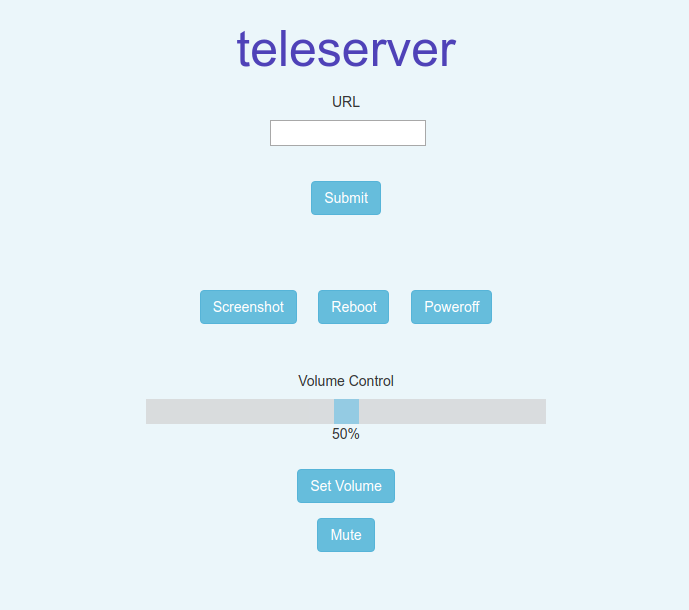
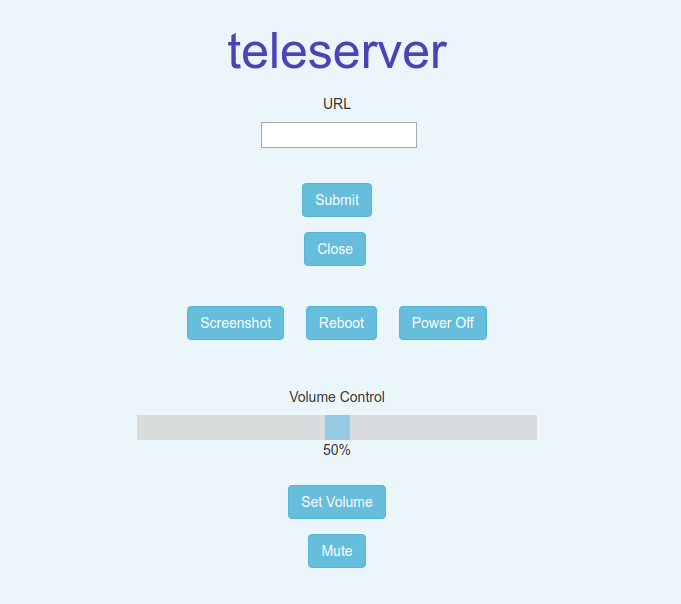
Added Close button to GUI

diff --git a/templates/cast.html b/templates/cast.html
@@ -69,6 +69,8 @@
             <div class="panel-body">
                 <input type="submit" class="btn btn-info" name="action" value="Submit">
             </div>
+            <!-- Close button-->
+            <input type="submit" class="btn btn-info" name="action" value="Close">
             </br></br></br>
 
             <div class="container">

diff --git a/run.py b/run.py
@@ -176,6 +176,9 @@ def gui():
         elif request.form['action'] == "Mute":
             system_mute()
 
+        elif request.form['action'] == "Close":
+            system_close()
+
        
         
     return render_template('cast.html', form=form)

diff --git a/README.md b/README.md
@@ -8,12 +8,12 @@ which allows you to execute commands over web.
 ## Install
 In order to install server you'll need ansible.
 
-If you have it already installed on your machine or you know how to install it, just download system_setup.yml and run it with:
+If you have it already installed on your machine or you know how to install it, just download systemSetup.yml and run it with:
 ```
-sudo ansible-playbook system_setup.yml
+sudo ansible-playbook systemSetup.yml
 ```
 However, if you don't know what's going on, download install.sh ans run it as sudo.
-It'll install ansible, download system_setup.yml and run it.
+It'll install ansible, download systemSetup.yml and run it.
 
 After reboot, all you need to find IP address of your machine (for example with ifconfig).
 
@@ -40,8 +40,10 @@ GUI allows to take a screenshot, power off or reboot computer and set volume val
 
 If you want to close web browser (e.g. because your boss is about to come in), simply enter 'close' or '#close' into the field.
 
-Other commands available via field:
+All commands available via field:
 ```
+close
+#close
 #reboot
 #poweroff
 #mute
